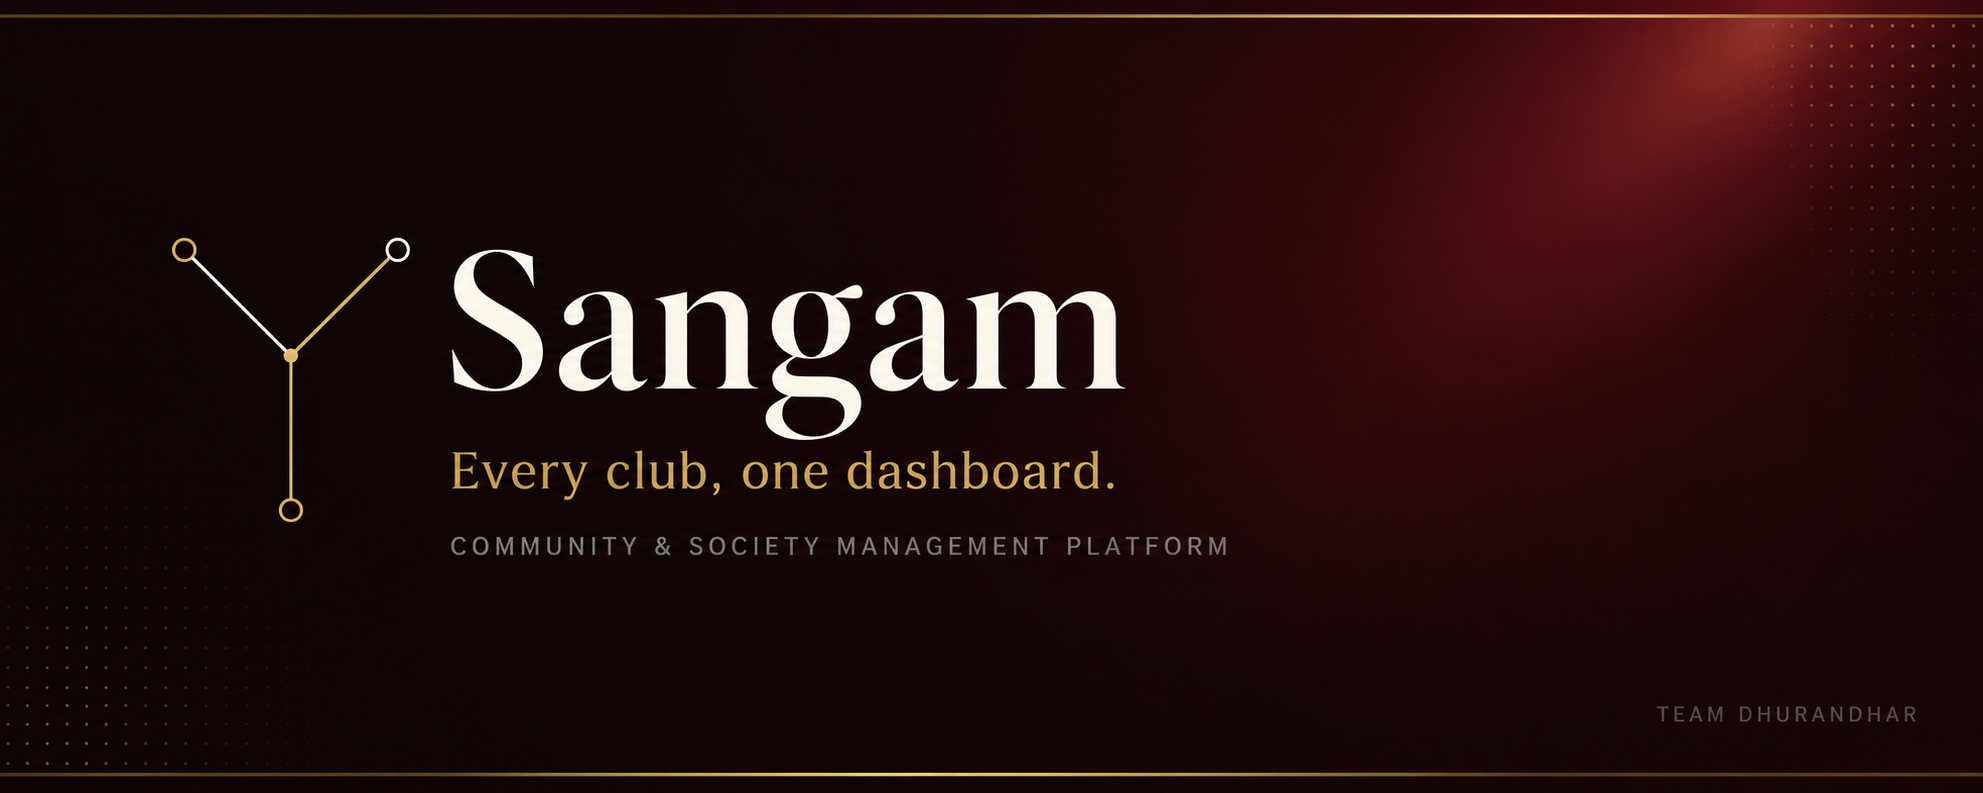
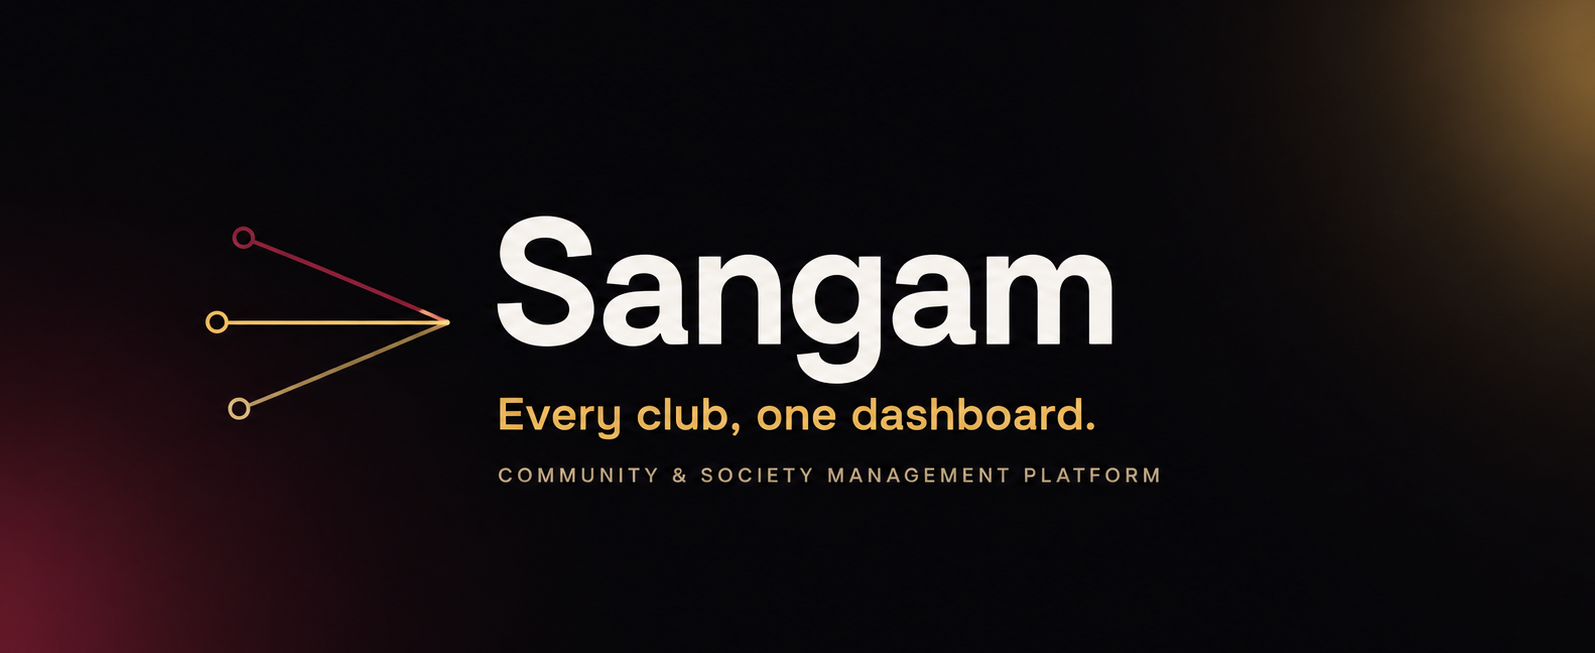
Document design system

diff --git a/design.md b/design.md
@@ -1,0 +1,391 @@
+# Sangam Design System
+
+This document captures the approved Sangam visual system currently being rolled out across the app. Treat it as the source of truth for new screens and for the remaining role-dashboard migrations.
+
+## Design Intent
+
+Sangam should feel like a nocturnal control room for serious community operations. The product replaces scattered WhatsApp groups, forms, spreadsheets, and informal handovers with one precise system for membership, events, tasks, announcements, resources, approvals, and transparency.
+
+The design should feel premium and product-led: closer to Linear, Arc, Raycast, Cron, or Framer than to a college club noticeboard. Confidence comes from typography, spacing, hierarchy, restrained depth, and purposeful interactions, not from decorative effects.
+
+## Core Principles
+
+- Dark first. The product lives on a near-black warm canvas, not a cream or paper theme.
+- Glass is load-bearing. Use glass for navigation, hero preview, dropdowns, mobile overlays, and maybe future command/modals. Do not use glass for every card.
+- Dashboard content is flat. Tables, cards, list rows, forms, stats, and board columns use solid dark panels with subtle borders.
+- Gold is the primary visible foreground accent. Maroon is a glow/background/border accent, not body text on dark.
+- Mono labels create structure. Use mono typography for metadata, IDs, timestamps, counts, labels, and small state indicators.
+- Motion should explain state. Use tactile hover/press states and small layout transitions; avoid blanket scroll fade-ups across dashboards.
+- Contrast is non-negotiable. Every normal text color on the dark canvas must meet WCAG AA.
+
+## Tokens
+
+The current global tokens live in `app/globals.css` under `:root`.
+
+### Canvas And Surfaces
+
+- Base canvas: `--background: 0.055 0.008 285`
+- Primary text: `--foreground: 0.965 0.006 80`
+- Solid panel: `--surface: 0.105 0.01 285`
+- Raised/hover panel: `--surface-2: 0.14 0.012 285`
+- Subtle filled state: `--surface-3: 0.18 0.012 285`
+- Hairline border: `--hairline: oklch(1 0 0 / 10%)`
+
+Use `bg-background`, `text-foreground`, `bg-surface`, `bg-surface-2`, and `border-hairline` through Tailwind tokens when possible.
+
+### Accents
+
+- Maroon/wine: `--primary: 0.47 0.16 24`
+- Maroon foreground: `--primary-foreground: 0.985 0.006 80`
+- Maroon glow: `--primary-glow: 0.54 0.17 24`
+- Gold/amber: `--secondary: 0.78 0.13 78`
+- Gold foreground: `--secondary-foreground: 0.16 0.018 55`
+
+Rules:
+
+- Use gold (`text-secondary`) for visible links, counts, active nav icons, pinned icons, key section highlights, and primary visible emphasis.
+- Use maroon for glow, filled backgrounds, low-opacity borders, or button fills where foreground is white/off-white.
+- Do not use `text-primary` for normal text on the dark canvas. It does not meet contrast. If maroon must appear as text, check the exact background and contrast first.
+
+### Semantic Colors
+
+- Success: `--success: 0.72 0.13 155`
+- Warning: `--warning: 0.78 0.13 78`
+- Destructive: `--destructive: 0.62 0.19 25`
+
+Use semantic colors for status and destructive actions, but keep the styling consistent through shared primitives.
+
+## Typography
+
+Global fonts are set in `app/layout.tsx`:
+
+- Body/display: `Space Grotesk`
+- Mono labels/data: `JetBrains Mono`
+
+Do not add page-specific font imports or local font overrides. The old Playfair/cream/editorial direction is retired.
+
+### Hierarchy
+
+- Large marketing headline: oversized, black weight, tight leading and tracking.
+- Dashboard page title: `text-4xl sm:text-5xl font-black leading-[0.95] tracking-[-0.05em] text-white`
+- Section label/eyebrow: `.text-mono-label`
+- Card title: small to medium sans, semibold, white.
+- Metadata/timestamps/count labels: mono, uppercase, muted.
+- Numerals in stats: mono, large, tight tracking.
+
+Shared page headers are implemented through `PageHeader` in `components/shell/AppShell.tsx`.
+
+## Utility Classes
+
+### `.night-nav`
+
+Used for frosted navigation surfaces.
+
+Current behavior:
+
+- Semi-transparent dark background.
+- `backdrop-filter: blur(18px) saturate(135%)`
+- `1px` low-opacity white border.
+- Used by landing navbar/dropdown, mobile top bar, and persistent dashboard sidebars.
+
+Use for:
+
+- Landing navbar.
+- Dashboard sidebar.
+- Mobile nav overlay/topbar.
+- Dropdowns/menus that float above content.
+
+Avoid for:
+
+- Dashboard cards.
+- Tables.
+- Stat blocks.
+- Repeated list rows.
+
+### `.night-panel`
+
+Used for dashboard content.
+
+Current behavior:
+
+- Solid dark surface with a very subtle top highlight.
+- `1px` low-opacity white border.
+- No backdrop blur.
+
+Use for:
+
+- Cards.
+- Stat blocks.
+- Tables.
+- Board columns.
+- Resource grids.
+- Forms.
+- Empty states.
+
+### `.gold-cta`
+
+Used for the primary CTA treatment.
+
+Current behavior:
+
+- Gold gradient fill.
+- Subtle top radial highlight.
+- Small gold glow on hover.
+- Slight upward hover movement.
+
+Use for:
+
+- Primary marketing CTA.
+- Primary dashboard action when there is exactly one dominant action.
+- Confirm/approve buttons where the action should feel positive and primary.
+
+Do not overuse it. Secondary actions should use outline/ghost button variants.
+
+### `.hero-glass`
+
+Used only in the landing hero product preview.
+
+Current behavior:
+
+- Semi-transparent glass surface.
+- Backdrop blur.
+- Maroon/gold atmospheric shadow.
+
+Do not reuse for normal dashboard cards.
+
+## Components
+
+### `AppShell`
+
+File: `components/shell/AppShell.tsx`
+
+Current behavior:
+
+- Mobile topbar uses `.night-nav`.
+- Persistent sidebar uses `.night-nav`.
+- Active nav item uses a subtle white fill, gold ring, and gold dot.
+- Role card is a flat translucent block inside the frosted sidebar.
+- Page content is constrained to `max-w-7xl`.
+
+When applying to new roles, keep navigation structure unchanged unless the role needs different information architecture. Only adapt page content.
+
+### `PageHeader`
+
+File: `components/shell/AppShell.tsx`
+
+Use this on all dashboard pages.
+
+Pattern:
+
+- Eyebrow: mono label.
+- Title: bold Space Grotesk, white.
+- Highlight words: prefer `text-secondary`.
+- Description: muted, max width, readable line height.
+- Actions: right aligned on desktop, below/inline on mobile.
+
+Avoid:
+
+- `text-display text-primary italic`
+- Playfair-like italic highlights
+- Maroon foreground text
+
+### `GlassCard`
+
+File: `components/ui/primitives.tsx`
+
+Despite the historical name, this now renders a flat `.night-panel` card. It should remain the default repeated-content card primitive until renamed later.
+
+Behavior:
+
+- Solid dark panel.
+- Low-opacity border.
+- Optional subtle hover lift and border shift.
+- No blur.
+
+### `Stat`
+
+File: `components/ui/primitives.tsx`
+
+Use for dashboard stat blocks.
+
+Behavior:
+
+- `.night-panel`
+- Mono label.
+- Large mono value.
+- Gold secondary delta.
+- Small colored signal dot.
+
+### `Btn`
+
+File: `components/ui/primitives.tsx`
+
+Variants:
+
+- `primary`: gold CTA (`.gold-cta`)
+- `hot`: maroon fill with safe off-white foreground
+- `outline`: low-opacity dark outline button
+- `ghost`: muted text with low-opacity hover fill
+
+Buttons use rounded-lg, not pill styling, except where a control genuinely requires a compact chip.
+
+### `StatusPill`
+
+File: `components/ui/primitives.tsx`
+
+Use consistently for all statuses:
+
+- `green` / `lime`: success or approved/available/done.
+- `amber`: pending/booked/doing/warning.
+- `slate`: neutral/inactive/todo/logged.
+- `magenta`: maroon-backed special state with white text.
+- `blue`: currently maps to gold/accent; use sparingly.
+
+The pill uses mono uppercase text, a small current-color dot, and a low-opacity ring.
+
+## Layout Patterns
+
+### Landing Page
+
+The landing page is the marketing reference:
+
+- Full dark canvas.
+- Fixed transparent-to-frosted nav.
+- Large statement headline.
+- Product preview below hero copy.
+- One glass hero product panel.
+- Flat dark modules, role panels, event cards.
+- Large atmospheric maroon/gold radial light only where it supports hero/CTA depth.
+
+### Dashboards
+
+Role dashboards should feel operational and scannable:
+
+- Sidebar glass, content flat.
+- Page header first.
+- Stats in a compact grid.
+- Main work areas use `night-panel` or `GlassCard`.
+- Tables/lists use borders and row hover, not heavy shadows.
+- Metadata in mono.
+- Primary CTA in gold only when there is one obvious main action.
+
+### Forms
+
+Inputs and textareas:
+
+- Dark fill: `bg-white/[0.035]`
+- Border: `border-white/12`
+- Text: `text-white`
+- Placeholder: `placeholder:text-muted-foreground/60`
+- Focus: `focus:border-secondary/55`
+- Radius: `rounded-xl`
+
+Labels use `.text-mono-label`.
+
+### Tables And Lists
+
+- Container: `.night-panel overflow-hidden rounded-2xl`
+- Header row: mono labels, muted.
+- Rows: `divide-y divide-hairline` or explicit `border-b border-hairline`.
+- Hover: `hover:bg-white/[0.04]`
+- Avatars: square rounded-lg with safe text. Maroon-tinted avatar backgrounds are allowed only with white text.
+
+### Boards
+
+Task/status boards:
+
+- Columns: `.night-panel rounded-2xl p-3`
+- Cards: `border border-white/10 bg-white/[0.035]`
+- Empty states: dashed low-opacity border.
+- Status controls: mono, rounded-md, active gold fill.
+
+## Motion And Interaction
+
+Allowed:
+
+- Button hover: slight lift, brightness, or border shift.
+- Active nav layout animation.
+- Small panel hover translate for clickable cards.
+- Count-up metrics when they represent live activity.
+- Form/control state transitions.
+
+Avoid:
+
+- Page-wide fade-up animation on every section.
+- Excessive parallax in dashboards.
+- Blur-heavy repeated cards.
+- Decorative particles/orbs that do not explain structure.
+
+Respect `prefers-reduced-motion` for any nonessential motion.
+
+## Contrast Notes
+
+Token-level checks passed:
+
+- Body on background: `18.91:1`
+- Muted on background: `8.42:1`
+- Body on panel: `18.55:1`
+- Muted on panel: `8.26:1`
+- Gold on background: `10.31:1`
+- Gold button text: `9.58:1`
+- Primary foreground on maroon: `7.11:1`
+- Success on panel: `8.74:1`
+- Destructive on panel: `5.14:1`
+
+Known rule:
+
+- Maroon foreground text on the dark background fails at roughly `2.82:1`. Do not use `text-primary` for normal foreground copy on dark surfaces.
+
+## Branch Rollout Workflow
+
+Keep applying the system role by role, with a dedicated branch and PR for each purpose.
+
+Completed/current stack:
+
+- `landing-page`: approved landing redesign.
+- `admin-dashboard`: global tokens/root fonts/shared shell/primitives plus admin reference implementation. PR base: `landing-page`.
+- `coordinator-dashboard`: coordinator screens and shared task status controls. PR base: `admin-dashboard`.
+
+Continue with the same pattern:
+
+- Create the next branch from the latest stacked branch if previous PRs are not merged.
+- Keep each branch scoped to one role or area.
+- Validate before pushing.
+- Push branch.
+- Open a draft PR against the previous branch in the stack.
+
+Recommended next branches:
+
+- `member-dashboard`
+- `volunteer-dashboard`
+- `faculty-dashboard`
+- `auth-pages`
+- `shared-components-polish` if needed after role passes
+
+## Validation Checklist
+
+Before opening each PR:
+
+- Run `npm run lint`.
+- Run `npm run build`.
+- Smoke-check the role routes locally.
+- Run or repeat the token-level contrast check when introducing new color combinations.
+- Scan changed files for:
+  - `text-primary` used as foreground text.
+  - `glass` or `glass-strong` on dashboard content.
+  - page-specific font imports.
+  - old `text-display text-primary italic` highlight patterns.
+  - `bg-surface/60` form fields that should now use dark input styling.
+
+## Do Not Reintroduce
+
+- Cream/paper theme.
+- Playfair or serif italic word highlights.
+- Maroon as normal foreground text on dark.
+- Generic glass cards everywhere.
+- Purple/blue gradient blobs.
+- Decorative dot/particle backgrounds.
+- Generic three-icon feature grids.
+- Pill buttons as the default button language.
+- Stock people-at-laptop imagery.
+
